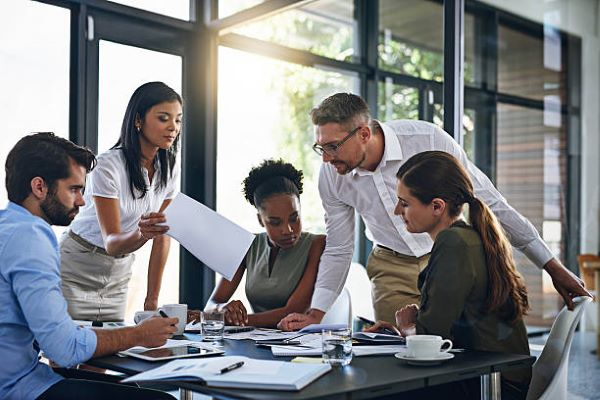
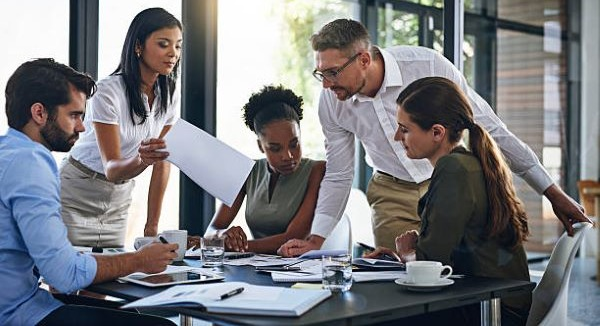
refined slider img size

diff --git a/src/components/HomePage.js b/src/components/HomePage.js
@@ -64,6 +64,7 @@ function HomePage() {
           boxShadow: "0 4px 10px rgba(0,0,0,0.1)",
           borderRadius: "8px",
           overflow: "hidden",
+          height: "80vh",
         }}
       >
         <Slider {...settings}>
@@ -73,7 +74,7 @@ function HomePage() {
             style={{
               width: "100%",
               display: "block",
-              height: "auto",
+              height: "80vh",
               objectFit: "cover",
             }}
           />
@@ -83,7 +84,7 @@ function HomePage() {
             style={{
               width: "100%",
               display: "block",
-              height: "auto",
+              height: "80vh",
               objectFit: "cover",
             }}
           />
@@ -93,7 +94,7 @@ function HomePage() {
             style={{
               width: "100%",
               display: "block",
-              height: "auto",
+              height: "80vh",
               objectFit: "cover",
             }}
           />
@@ -354,16 +355,17 @@ function HomePage() {
                 alt="Team Member 2"
                 style={{
                   width: "150px",
-                  height: "170px",
-                  borderRadius: "10%",
+                  height: "155px",
+                  borderRadius: "50%",
                   objectFit: "cover",
+                  boxShadow: "1px 2px 10px 2px #3a3737"
                 }}
               />
               <Typography variant="h6" sx={{ fontWeight: "bold" }}>
-                Team Member 2
+                Pradeep Reddy
               </Typography>
               <Typography variant="body2" sx={{ color: "text.secondary" }}>
-                Role 2
+                Ops Manager
               </Typography>
             </Box>
           </Grid>
